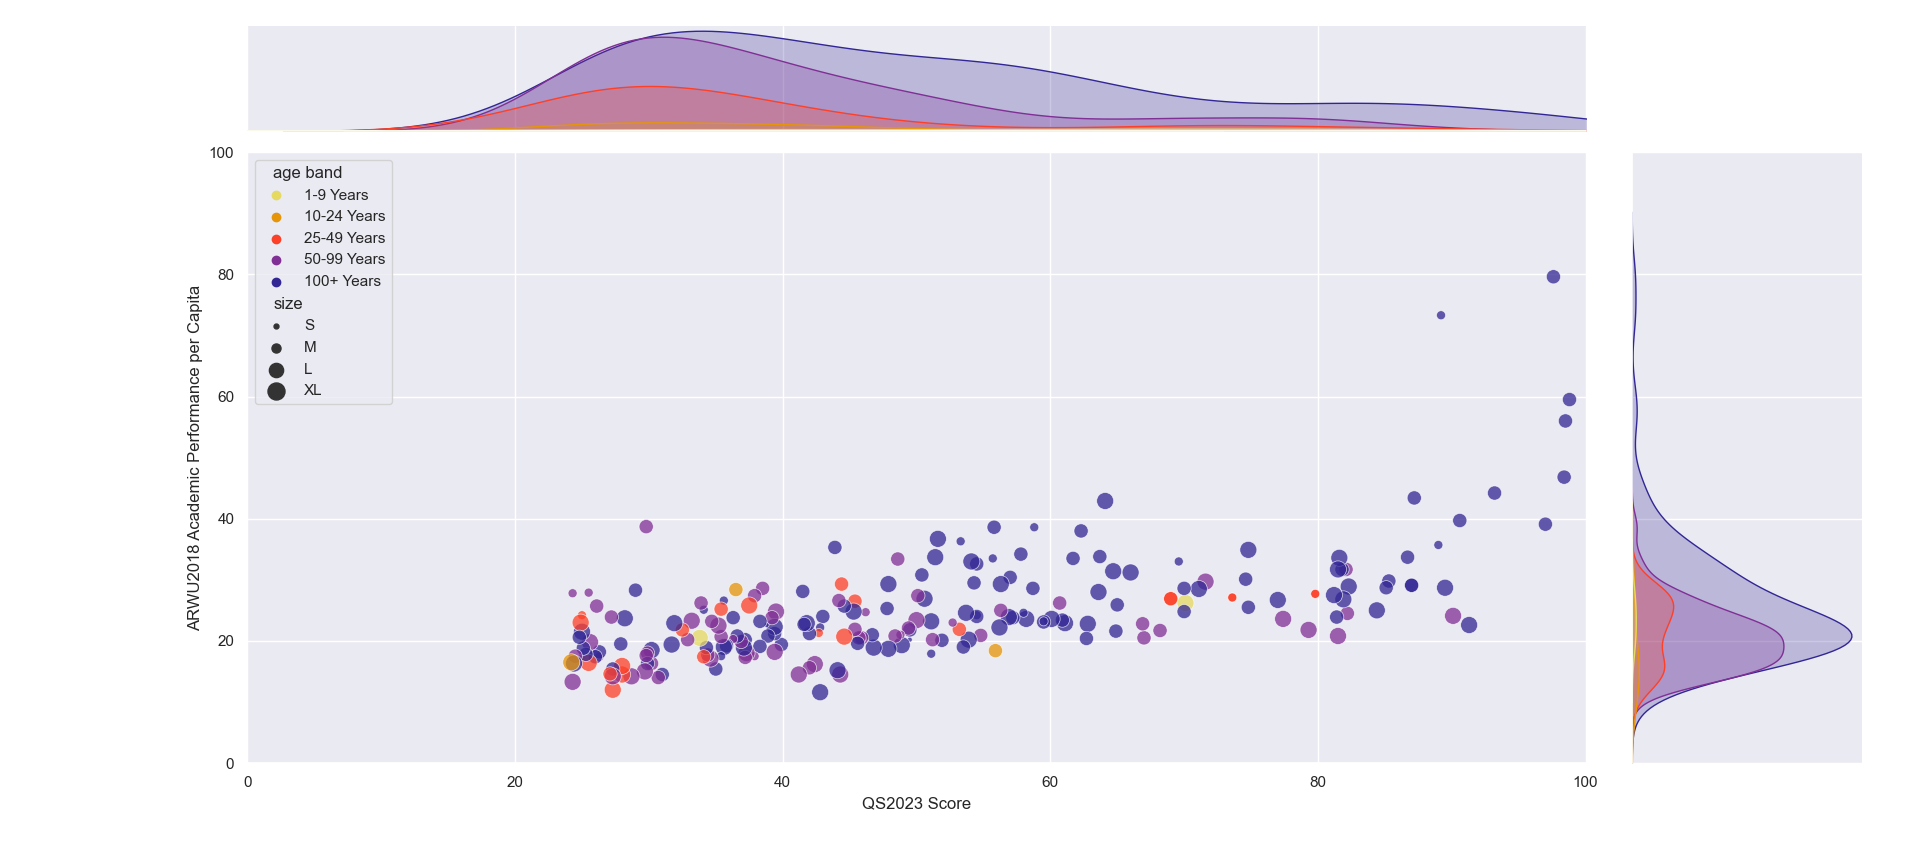
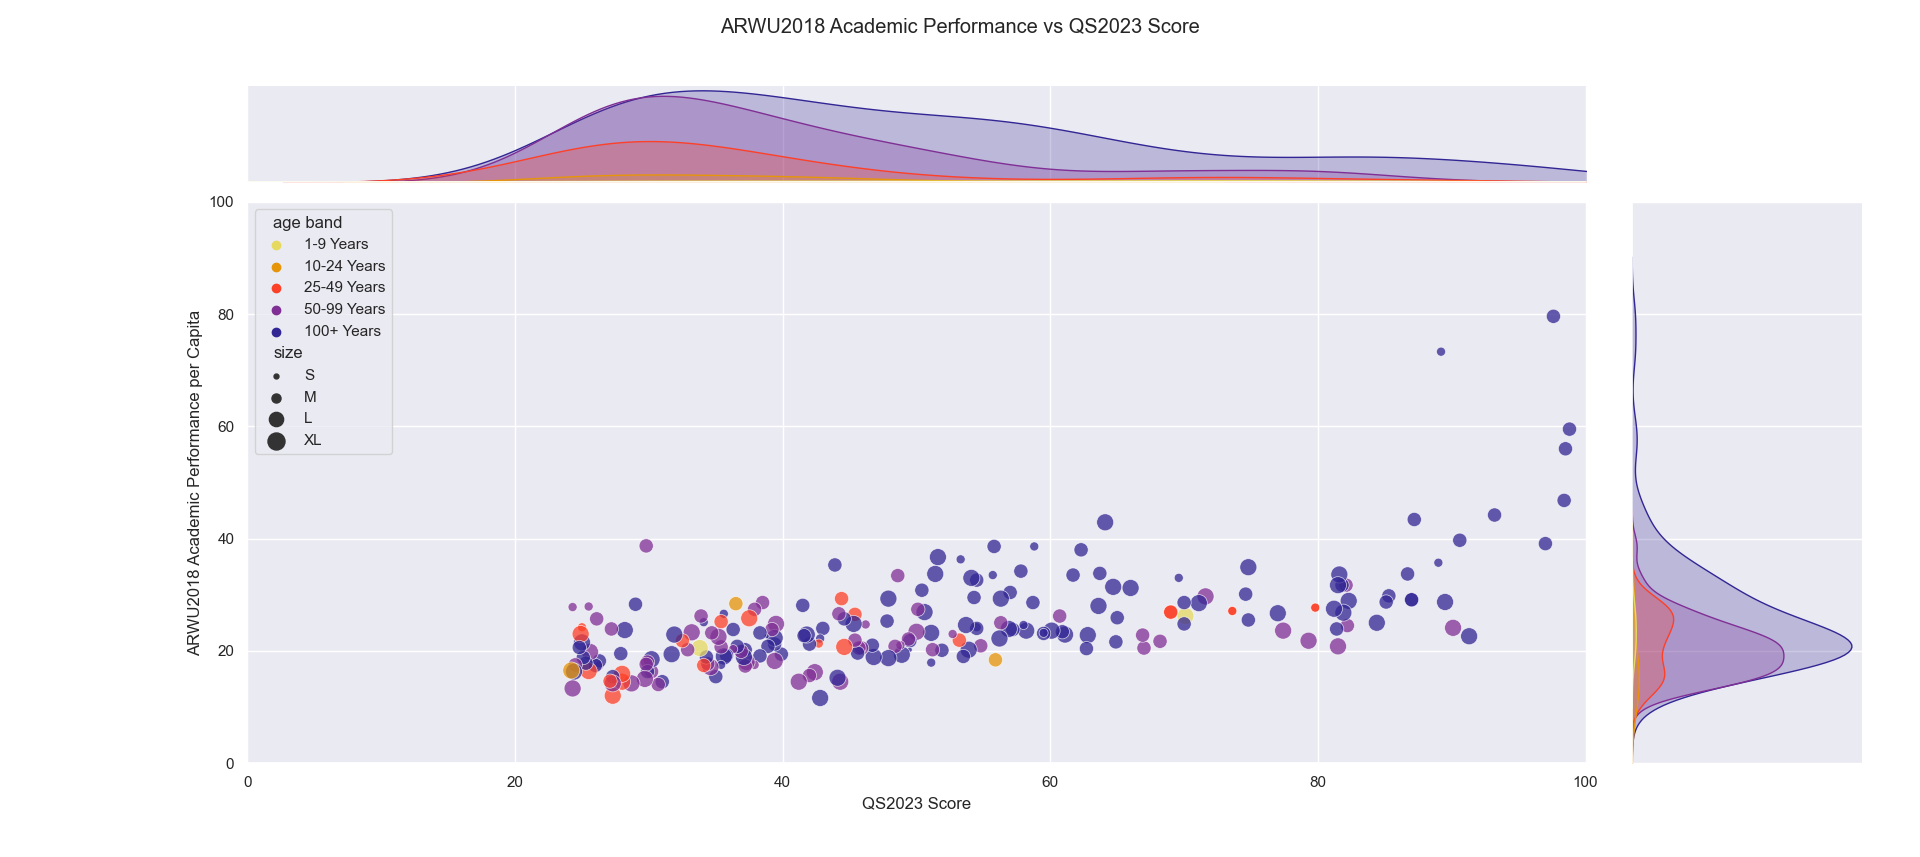
Finishing charts

diff --git a/Stage2/520419832/chart_production.py b/Stage2/520419832/chart_production.py
@@ -33,9 +33,11 @@ sns.set_palette("deep")
 
 
 ## Chart 1 - ARWU2018 PCP vs QS2023 Overall Score, coloured by university age, sized by no. students
-sns.jointplot(df_cleaned, x="QS2023 Score", y="ARWU2018 Academic Performance per Capita", hue="age band",
+c1 = sns.jointplot(df_cleaned, x="QS2023 Score", y="ARWU2018 Academic Performance per Capita", hue="age band",
         joint_kws={"alpha":0.75, "size":df_cleaned["size"], "sizes":[12.5, 42.5, 105, 150]},
         xlim=(0,100), ylim=(0,100), palette="CMRmap_r")
+c1.fig.subplots_adjust(top=0.9)
+c1.fig.suptitle("ARWU2018 Academic Performance vs QS2023 Score")
 
 
 
@@ -46,16 +48,25 @@ df_country = df_cleaned.groupby("location").mean().dropna().loc[country_counts >
 
 # Converting dataframe into wide form
 df_country_long = pd.melt(df_country.reset_index(), id_vars=["location"], value_vars=["QS2023 Academic Reputation", "QS2023 Employer Reputation"])
+df_country_long["Mean Score (/100)"] = df_country_long["value"]
+df_country_long["Score"] = df_country_long["variable"]
 
 # Graphing
-sns.catplot(df_country_long, x="location", y="value", hue="variable", kind="bar")
+c2 = sns.catplot(df_country_long,x="location",y="Mean Score (/100)",hue="variable",kind="bar",legend_out=False)
+c2._legend.set_title(None)
+c2.fig.subplots_adjust(top=0.9)
+c2.fig.suptitle("QS2023 Academic & Employer Reputation by Country")
 
 
-
-## Chart 3 - Mean THE2020 score vs QS2023 Academic Reputation, coloured by ???
+## Chart 3 (extra) - Mean THE2020 score vs QS2023 Academic Reputation, coloured by age
 # Creating new column
-df_cleaned["Mean THE2020 Score"] = (df_cleaned["THE2020 Medicine"] + df_cleaned["THE2020 Engineering"] + df_cleaned["THE2020 Law"])/3
+df_cleaned["Mean THE2020 Score"] = (df_cleaned["THE2020 Medicine"] + df_cleaned["THE2020 Engineering"]
+                                    + df_cleaned["THE2020 Law"])/3
 
 # Graphing
-sns.relplot(df_cleaned, x="Mean THE2020 Score", y="ARWU2018 Academic Performance per Capita", hue="age band", kind="scatter")
-plt.show()
+sns.relplot(df_cleaned, x="Mean THE2020 Score", y="ARWU2018 Academic Performance per Capita", 
+            hue="age band", kind="scatter")
+
+
+## Showing the charts
+#plt.show()
